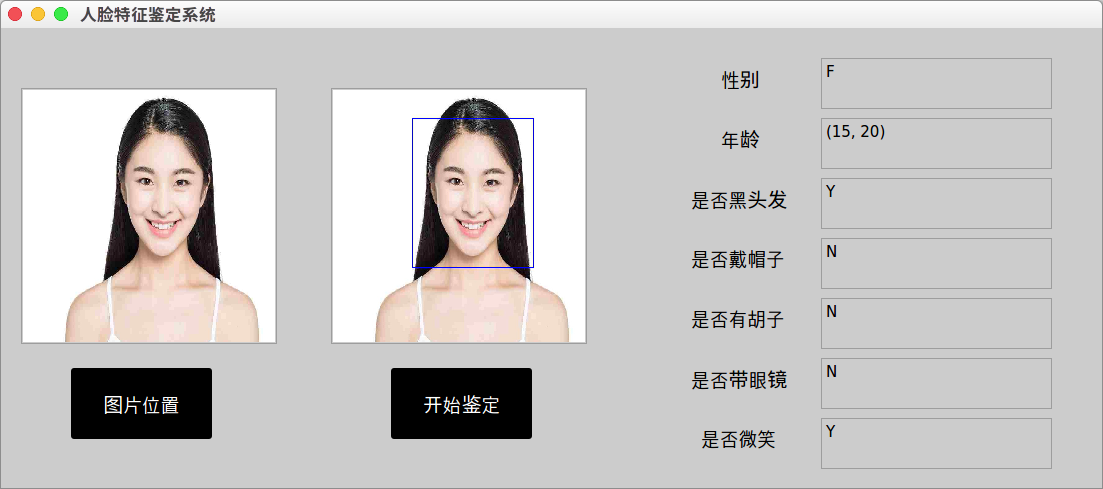
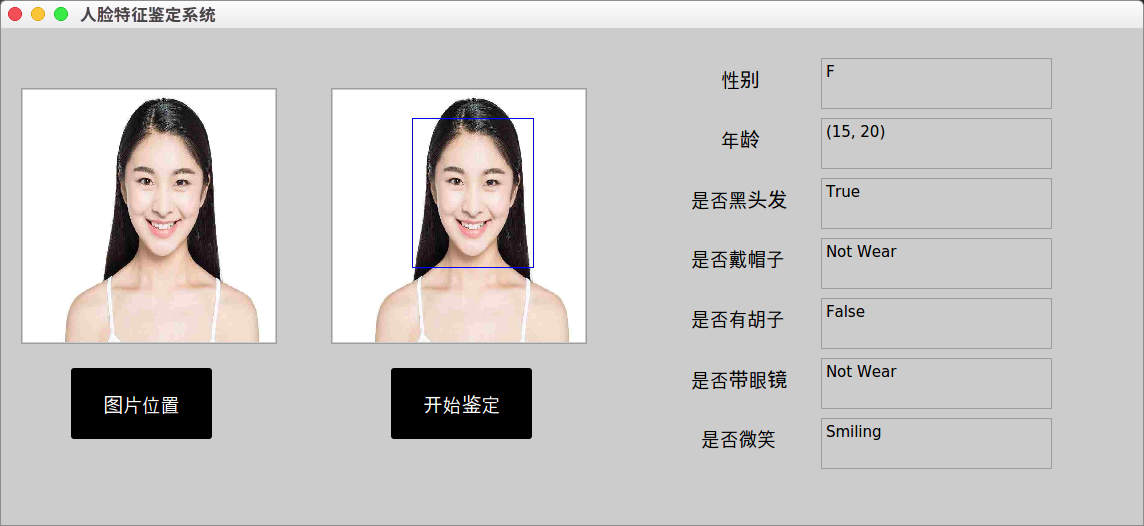
update demo1.png widget.py

diff --git a/widget.py b/widget.py
@@ -185,6 +185,42 @@ class Ui_Widget(object):
         print(res[-1])
         print(type(res[-1]))
         self.textBrowser_2.setText(res[-1])
+
+        res = os.popen('python guess.py --model_type inception --class_type blackhair --model_dir '
+                       '/home/hugo/Coding/Data/Face/Module/Output_blackhair/run-19155 '
+                       '--filename %s --device_id /gpu:0' % self.path).readlines()
+        print(res[-1])
+        print(type(res[-1]))
+        self.textBrowser_3.setText(res[-1])
+
+        res = os.popen('python guess.py --model_type inception --class_type hat --model_dir '
+                       '/home/hugo/Coding/Data/Face/Module/Output_hat/run-4685 '
+                       '--filename %s --device_id /gpu:0' % self.path).readlines()
+        print(res[-1])
+        print(type(res[-1]))
+        self.textBrowser_4.setText(res[-1])
+
+        res = os.popen('python guess.py --model_type inception --class_type mustache --model_dir '
+                       '/home/hugo/Coding/Data/Face/Module/Output_mustache/run-15071 '
+                       '--filename %s --device_id /gpu:0' % self.path).readlines()
+        print(res[-1])
+        print(type(res[-1]))
+        self.textBrowser_5.setText(res[-1])
+
+        res = os.popen('python guess.py --model_type inception --class_type eyeglass --model_dir '
+                       '/home/hugo/Coding/Data/Face/Module/Output_eyeglass/run-25919 '
+                       '--filename %s --device_id /gpu:0' % self.path).readlines()
+        print(res[-1])
+        print(type(res[-1]))
+        self.textBrowser_6.setText(res[-1])
+
+        res = os.popen('python guess.py --model_type inception --class_type smile --model_dir '
+                       '/home/hugo/Coding/Data/Face/Module/Output_smile/run-15985 '
+                       '--filename %s --device_id /gpu:0' % self.path).readlines()
+        print(res[-1])
+        print(type(res[-1]))
+        self.textBrowser_7.setText(res[-1])
+
         res = os.popen('python guess.py --class_type gender --model_type inception --model_dir '
                        '/home/hugo/Coding/Data/Face/Module/Output_gender/21936 '
                        '--filename %s --device_id /gpu:0  --face_detection_model '
@@ -194,11 +230,6 @@ class Ui_Widget(object):
         print(res[-1])
         print(type(res[-1]))
         self.textBrowser.setText(res[-1])
-        self.textBrowser_3.setText('Y')
-        self.textBrowser_4.setText('N')
-        self.textBrowser_5.setText('N')
-        self.textBrowser_6.setText('N')
-        self.textBrowser_7.setText('Y')
 
         add = '/home/hugo/Coding/WorkSpace/FacialAttribution/frontal-face.jpg'
         self.label_2.setVisible(False)
